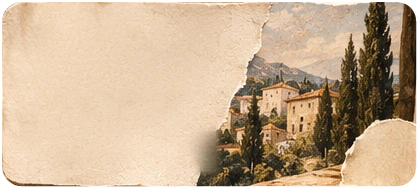
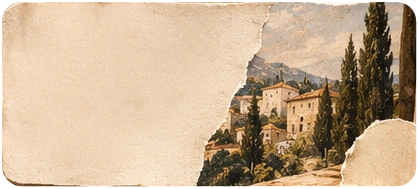
fix(jurnl): F05 motion pilot — card ink masks keep imagery edges intact (per-line boxes, light-ground only)
Claude-Session: https://claude.ai/code/session_016iFHHZSJayUYsyciZFbowv

Changed region(s): [[0.4654, 0.6878, 0.5274, 0.9259]]

diff --git a/scripts/jurnl/f05-motion-pilot/extract_layers.py b/scripts/jurnl/f05-motion-pilot/extract_layers.py
@@ -50,10 +50,11 @@ CARDS = {
     'credit': (522, 946, 951, 1163),
 }
 CARD_TEXT = {
-    'bank': (104, 762, 292, 908),
-    'payout': (554, 762, 752, 908),
-    'cash': (104, 972, 288, 1136),
-    'credit': (554, 972, 690, 1136),
+    # one or more boxes per card; the bank amount box stops before the village painting's torn edge (x ≈ 266)
+    'bank': [(104, 762, 284, 832), (104, 838, 262, 908)],
+    'payout': [(554, 762, 752, 908)],
+    'cash': [(104, 972, 288, 1136)],
+    'credit': [(554, 972, 690, 1136)],
 }
 CHEVRONS = {'bank': (448, 868, 478, 910), 'payout': (898, 868, 928, 910), 'cash': (448, 1106, 478, 1148), 'credit': (898, 1106, 928, 1148)}
 DOTS = (466, 1200, 558, 1226)
@@ -474,11 +475,17 @@ def main():
     for k in CARDS:
         rect = card_geo[k]
         rm = rounded_rect_mask(shape, rect, 19)
-        txt = cv2.bitwise_and(ink_mask(src, CARD_TEXT[k], dark=True, thr=9, dil=7), (rm > 250).astype(np.uint8) * 255)
+        txt = np.zeros(shape[:2], np.uint8)
+        for b in CARD_TEXT[k]:
+            txt |= ink_mask(src, b, dark=True, thr=9, dil=7)
+        txt = cv2.bitwise_and(txt, (rm > 250).astype(np.uint8) * 255)
+        # ink is dark marks on light parchment only: never the card's own imagery
+        bgL = cv2.medianBlur(lab_L(src).clip(0, 255).astype(np.uint8), 31)
+        txt = cv2.bitwise_and(txt, ((bgL > 150).astype(np.uint8) * 255))
         chev = ink_mask(src, CHEVRONS[k], dark=True, thr=14, dil=5)
         x0, y0, x1, y1 = (int(round(v)) for v in rect)
         excl = cv2.dilate(txt | chev, np.ones((9, 9), np.uint8)) | cv2.bitwise_not(cv2.erode((rm > 250).astype(np.uint8) * 255, np.ones((21, 21), np.uint8)))
-        donor = near_color((x0, y0, min(x1, CARD_TEXT[k][2] + 30), y1), excl, 26)
+        donor = near_color((x0, y0, min(x1, max(b[2] for b in CARD_TEXT[k]) + 30), y1), excl, 26)
         card_clean = synth_fill(card_clean, txt, donor, seed_offset=10 + len(k), P=8)
         chev_donor = near_color((CHEVRONS[k][0] - 26, CHEVRONS[k][1] - 22, CHEVRONS[k][2] + 10, CHEVRONS[k][3] + 8), cv2.dilate(chev, np.ones((7, 7), np.uint8)), 30)
         if np.count_nonzero(chev) and len(window_ok(chev_donor, 5)[0]):
